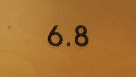
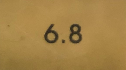
Took new pictures for pH unit tests with consistent background. All tests passing using hue for pH classification.

diff --git a/tests.py b/tests.py
@@ -12,7 +12,7 @@ import init
 from sensing_playground import interpolate_rgb_values
 from sensing import get_img, interpolate_chemical_property_from_img_rgb, visualize, get_average_rgb_from_img, get_scale_map, interpolate_chemical_property_from_img_hue
 
-test_accuracy = 0.3
+test_accuracy = 0.2
 visualize_fails = True
 
 class TestTesting(unittest.TestCase):
@@ -33,7 +33,7 @@ class TestSensingPh(unittest.TestCase):
 
 	def run_test(self, test_value, test_file):
 		img = get_img('file', test_file) 
-		value = interpolate_chemical_property_from_img_rgb('pH', img)
+		value = interpolate_chemical_property_from_img_hue('pH', img)
 
 		print("[TEST]: Testing %f = %f" % (value, test_value))
 
@@ -47,61 +47,36 @@ class TestSensingPh(unittest.TestCase):
 
 		return abs(value - test_value)
 
-	def test_6_5(self):
-		# read the 6.5 pH test image and classify 
-		test_value = 6.5
-		file_name = 'unit/6,5.png'
-		self.assertLess(self.run_test(test_value, file_name), test_accuracy)
-
-	def test_6_7(self):
-		test_value = 6.7
-		file_name = 'unit/6,7.png'
-		self.assertLess(self.run_test(test_value, file_name), test_accuracy)
-
-	def test_7_0(self):
-		test_value = 7.0
-		file_name = 'unit/7,0.png'
+	def test_6_9(self):
+		test_value = 6.9
+		file_name = 'unit/6,9.png'
 		self.assertLess(self.run_test(test_value, file_name), test_accuracy)
 
 	def test_7_2(self):
-		test_value = 7.2
+		test_value = 7.2 
 		file_name = 'unit/7,2.png'
 		self.assertLess(self.run_test(test_value, file_name), test_accuracy)
 
 	def test_7_5(self):
-		test_value = 7.5
+		test_value = 7.5 
 		file_name = 'unit/7,5.png'
 		self.assertLess(self.run_test(test_value, file_name), test_accuracy)
 
-	def test_7_7(self):
-		test_value = 7.7
-		file_name = 'unit/7,7.png'
-		self.assertLess(self.run_test(test_value, file_name), test_accuracy)
-
-	def test_7_71(self):
-		test_value = 7.71
-		file_name = 'unit/7,71.png'
+	def test_7_6(self):
+		test_value = 7.6 
+		file_name = 'unit/7,6.png'
 		self.assertLess(self.run_test(test_value, file_name), test_accuracy)
 
 	def test_7_9(self):
-		test_value = 7.9
+		test_value = 7.9 
 		file_name = 'unit/7,9.png'
 		self.assertLess(self.run_test(test_value, file_name), test_accuracy)
 
-	def test_8_0(self):
-		test_value = 8.0 
-		file_name = 'unit/8,0.png'
+	def test_7_35(self):
+		test_value = 7.35 
+		file_name = 'unit/7,35.png'
 		self.assertLess(self.run_test(test_value, file_name), test_accuracy)
 
-	def test_8_2(self):
-		test_value = 8.2
-		file_name = 'unit/8,2.png'
-		self.assertLess(self.run_test(test_value, file_name), test_accuracy)
-
-	def test_7_6(self):
-		test_value = 7.6
-		file_name = 'unit/7,6.png'
-		self.assertLess(self.run_test(test_value, file_name), test_accuracy)
 
 if __name__ == '__main__':
 	unittest.main()
